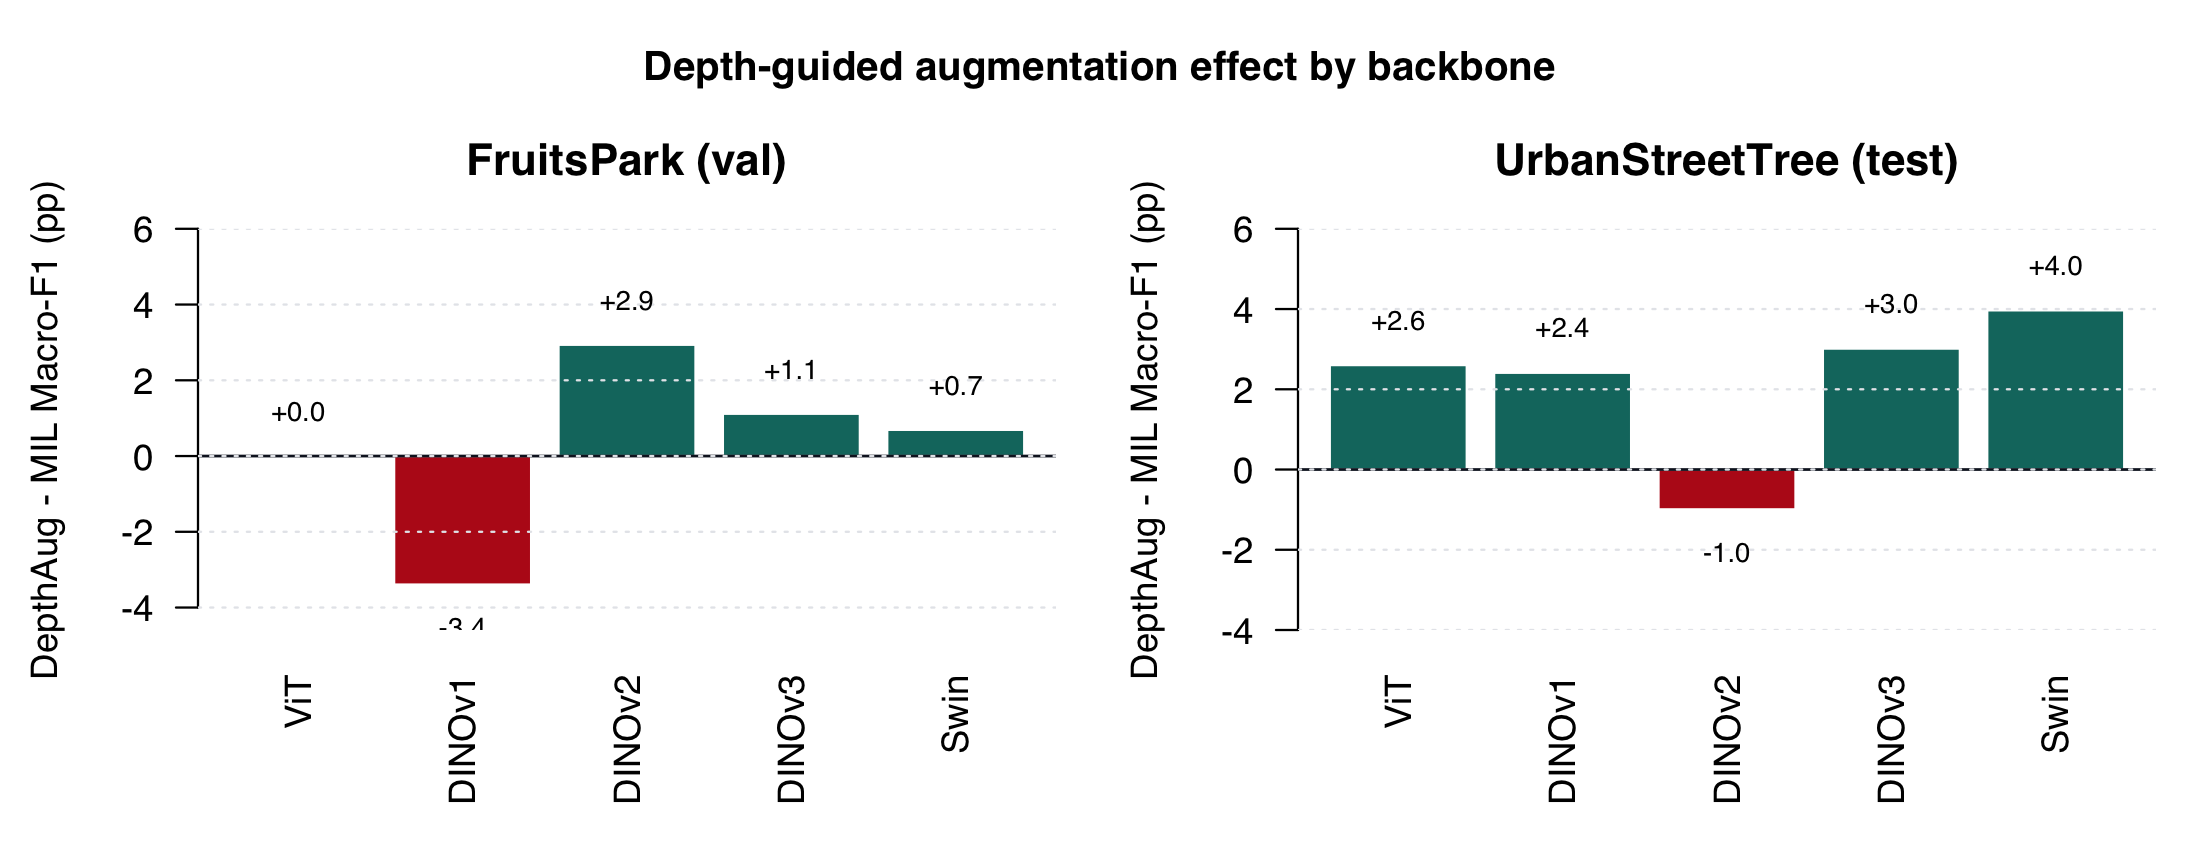
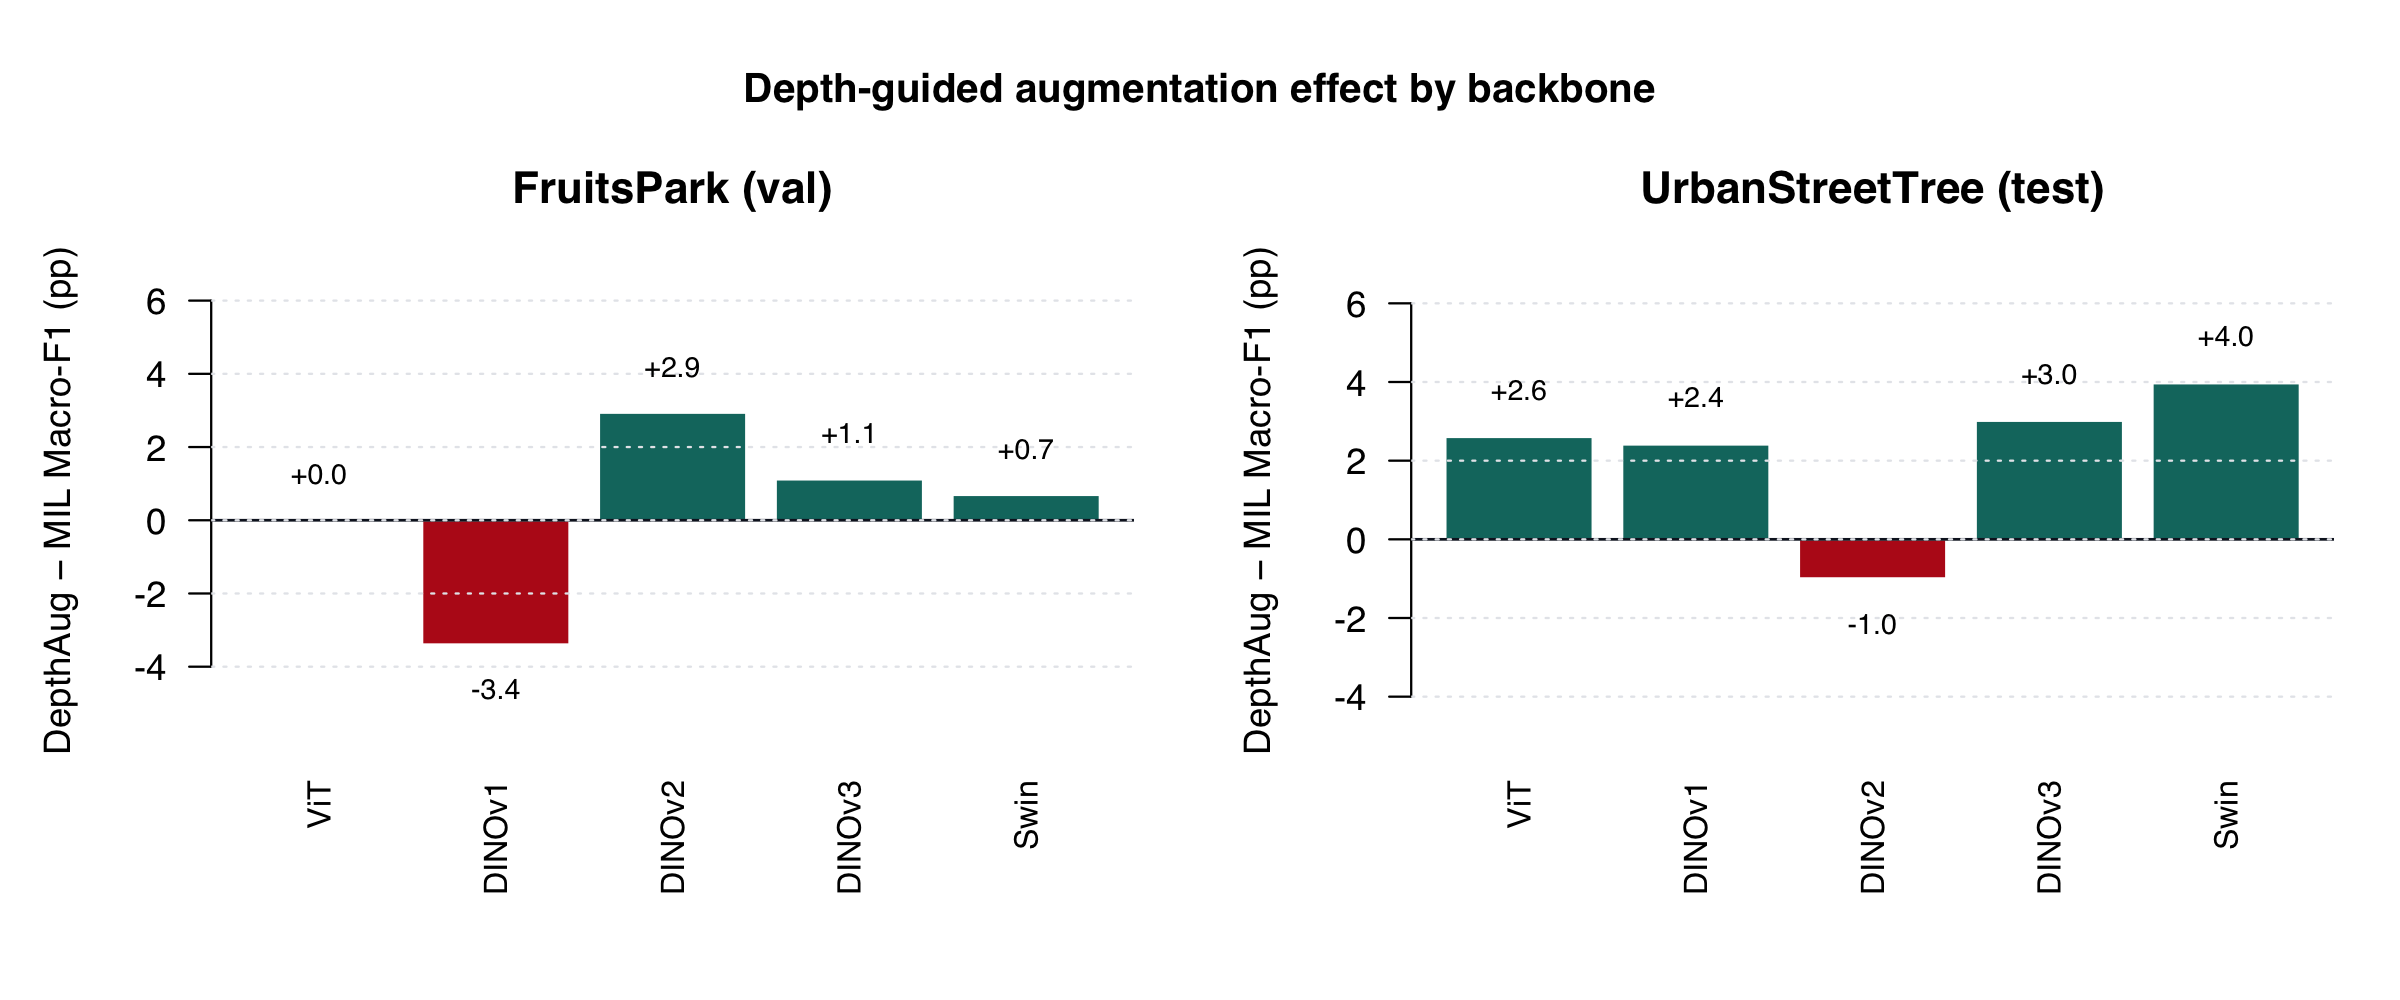
Upgrade attention localization to 4-seed multi-seed analysis and fix figure layout issues
Attention localization (results):
- Replaced single seed-42 analysis with full 4-seed (42–45) pooled result
  matching the sampling-seed protocol used elsewhere in the paper
- Updated table (tab:attention_localization): values now from 572 image-seed
  observations per condition; accuracy/macro-F1 as seed-mean±std matching
  tab:sampling_seed_ablation exactly
- New finding: TBS > TBS+DepthAug > Random (all pairwise p<10^-5 after
  Holm correction); DepthAug attenuates but does not eliminate localization
  benefit, removing the single-seed "no benefit" caveat
- Updated Discussion and Limitations paragraphs accordingly

Attention localization (figures):
- Regenerated fig25 from combined 4-seed CSV data
- Replaced sidewaysfigure* (landscape, low quality) with two portrait
  figure*[p] pages (fig26a: species 1–7, fig26b: species 8–13)
  using high-res source crops (1487×1800 px each)
- Removed \usepackage{rotating}

Figure fixes:
- Fig 12 (fig16_depth_aug_delta): increased ylim headroom and added
  xpd=TRUE to prevent value labels being clipped at plot boundary
- Fig 14 (fig17_pareto_frontier): moved "best" and "efficient" labels
  below their respective markers to avoid overlap with ratio text labels

diff --git a/IEEE_ACCESS/access.tex b/IEEE_ACCESS/access.tex
@@ -631,8 +631,51 @@ UrbanStreetTree & Proposed Sparse & 0.3 & $94.06\pm1.46$ & $410.40\pm25.57$ & 1.
 \label{fig:inference_breakdown}
 \end{figure*}
 
-\subsection{Qualitative Attention Behavior}
+\subsection{Qualitative and Attention Localization Analysis}
 Attention visualizations can be useful diagnostics for checking whether high-weight patches correspond to trunks, branches, or background regions. However, attention weights should not be treated as causal explanations by themselves \cite{attentionnotexplanation}. For this reason, we use attention behavior only as supporting diagnostic evidence and base the main claims on the seed-42 quantitative comparison, the Pareto analysis, the fixed-budget multi-seed diagnostic, and the measured efficiency analyses. Selected-patch visualizations are most informative when generated from the exact TBS-DepthAug setting used in the quantitative experiments; visualizations from earlier preliminary configurations are therefore not used as primary evidence.
+
+To turn this diagnostic into a quantitative comparison, we use the UrbanStreetTree test split, the only split with pixel-level tree masks, and re-run inference with the four sampling-seed checkpoints (42, 43, 44, 45) used in Table~\ref{tab:sampling_seed_ablation} (Random sparse, TBS sparse, and TBS sparse with DepthAug), pooling the 143 test images from each seed for 572 image-seed observations per condition. FruitsPark has no corresponding tree masks and is therefore excluded from this diagnostic. For each selected patch $i$ with ABMIL attention weight $a_i$ and tree-mask overlap ratio $r_i$, we compute the attention mass on tree regions $A_{\text{tree}}=\sum_i a_i r_i$ and a uniform-weighting reference $U_{\text{tree}}=\frac{1}{K}\sum_i r_i$, where $K$ is the number of selected patches. $U_{\text{tree}}$ isolates the tree-region overlap already produced by patch selection (TBS or random) alone, while $\Delta_{\text{tree}}=A_{\text{tree}}-U_{\text{tree}}$ and the attention lift $A_{\text{tree}}/U_{\text{tree}}$ isolate the additional effect of ABMIL's learned weighting within the selected bag.
+
+Table~\ref{tab:attention_localization} summarizes the result, pooled over the four sampling seeds. Tree-region overlap from patch selection alone ($U_{\text{tree}}$) is nearly identical between TBS sparse and random sparse selection, but ABMIL attention reweights the selected bag toward tree regions under both TBS variants: attention lift is highest under TBS sparse (median 1.53 [1.14, 1.98]), intermediate under TBS sparse with DepthAug (median 1.44 [1.13, 1.82]), and lowest under random sparse selection (median 1.24 [1.00, 1.64]). All three pairwise differences in lift and $\Delta_{\text{tree}}$ are significant after Holm correction (TBS sparse vs.\ random sparse, $p<10^{-21}$; TBS sparse vs.\ TBS sparse with DepthAug, $p<10^{-5}$; random sparse vs.\ TBS sparse with DepthAug, $p<10^{-6}$). DepthAug therefore reduces, but does not eliminate, the localization benefit of TBS sparse selection on this dataset, while test accuracy and macro-$F_1$ also decrease relative to plain TBS sparse, consistent with the seed-level means already reported in Table~\ref{tab:sampling_seed_ablation}. This matches the sampling-seed diagnostic in Section~\ref{sec:discussion}, which already shows that DepthAug's benefit on UrbanStreetTree is dataset- and protocol-dependent rather than uniform: across the four sampling seeds, plain TBS sparse selection gives both the strongest localization signal and the best accuracy, whereas adding DepthAug attenuates both.
+
+Fig.~\ref{fig:attention_localization_summary} shows the same four quantities pooled across the four sampling seeds, and Figs.~\ref{fig:attention_localization_qualitative}--\ref{fig:attention_localization_qualitative_b} show one representative test image per class from the seed-42 checkpoints (two-page layout, species 1--7 and 8--13), selected as a correctly classified example closest to the class median foreground ratio to avoid showing only visually convenient cases, together with the tree mask and the ABMIL attention heatmap under each condition.
+
+\begin{table*}[t]
+\centering
+\caption{Attention localization diagnostic on the UrbanStreetTree test split, pooled over four sampling seeds (572 image-seed observations per condition). $U_{\text{tree}}$ is the uniform-weighting reference, $A_{\text{tree}}$ is the ABMIL attention mass on tree regions, $\Delta_{\text{tree}}=A_{\text{tree}}-U_{\text{tree}}$, and the attention lift is $A_{\text{tree}}/U_{\text{tree}}$ (reported as median [IQR] due to its skewed distribution). Accuracy and macro-$F_1$ are seed-level mean $\pm$ std, matching Table~\ref{tab:sampling_seed_ablation}.}
+\label{tab:attention_localization}
+\resizebox{\textwidth}{!}{%
+\begin{tabular}{lccccccc}
+\toprule
+Condition & $U_{\text{tree}}$ & $A_{\text{tree}}$ & $\Delta_{\text{tree}}$ & Attention lift (median [IQR]) & Accuracy (\%) & Macro-$F_1$ (\%) \\
+\midrule
+Random sparse & $0.100\pm0.071$ & $0.131\pm0.089$ & $0.031\pm0.049$ & 1.24 [1.00, 1.64] & $89.69\pm3.85$ & $88.11\pm3.95$ \\
+TBS sparse & $0.098\pm0.090$ & $0.148\pm0.113$ & $0.051\pm0.056$ & 1.53 [1.14, 1.98] & $91.96\pm1.34$ & $90.43\pm1.76$ \\
+TBS sparse + DepthAug & $0.098\pm0.090$ & $0.138\pm0.102$ & $0.041\pm0.049$ & 1.44 [1.13, 1.82] & $88.64\pm3.49$ & $87.01\pm3.52$ \\
+\bottomrule
+\end{tabular}}
+\end{table*}
+
+\begin{figure*}[t]
+\centering
+\includegraphics[width=\textwidth]{figures/fig25_attention_localization_summary.png}
+\caption{Attention localization metrics on the UrbanStreetTree test split, pooled over four sampling seeds. TBS sparse selection raises attention mass and lift on tree regions relative to random sparse selection; adding DepthAug attenuates this benefit but does not remove it.}
+\label{fig:attention_localization_summary}
+\end{figure*}
+
+\begin{figure*}[p]
+\centering
+\includegraphics[width=\textwidth]{figures/fig26a_attention_top.png}
+\caption{Representative ABMIL attention heatmaps per UrbanStreetTree class, Part~1 of~2 (species 1--7), from the sampling-seed-42 checkpoints. Each row shows one correctly classified test image selected closest to the class median foreground ratio. Columns: input image with tree mask, attention heatmap under random sparse, TBS sparse, and TBS sparse with DepthAug selection.}
+\label{fig:attention_localization_qualitative}
+\end{figure*}
+
+\begin{figure*}[p]
+\centering
+\includegraphics[width=\textwidth]{figures/fig26b_attention_bottom.png}
+\caption{Representative ABMIL attention heatmaps per UrbanStreetTree class, Part~2 of~2 (species 8--13), continued from Fig.~\ref{fig:attention_localization_qualitative}. Layout and selection criteria are identical to Part~1.}
+\label{fig:attention_localization_qualitative_b}
+\end{figure*}
 
 \section{Discussion}
 \label{sec:discussion}
@@ -641,7 +684,7 @@ Attention visualizations can be useful diagnostics for checking whether high-wei
 Mid-range tree classification requires the model to preserve fine local evidence while reasoning over the entire object structure. Standard image-level resizing can dilute trunk and bark information, especially when the tree occupies a small region. ABMIL avoids forcing the whole image into one global descriptor; it lets the model assign weights to local patches. TBS makes this practical by reducing the number of instances and biasing the bag toward structural patches before feature extraction. The preliminary and fixed-budget diagnostics show that sparse sampling alone is not sufficient to explain the gains: random sparse sampling can be competitive, but TBS provides a deterministic structural prior and improves the replicated sparse-selection mean on both datasets. The filter-response diagnostic further explains why Sobel scoring is appropriate for TBS: after depth-guided background perturbation, Sobel still preserves trunk and branch contours while many background edges are suppressed.
 
 \subsection{Dataset-Dependent Role of DepthAug}
-UrbanStreetTree contains complex street backgrounds and a separate test split, making it a relevant setting for evaluating background shortcut suppression. At the same time, the dataset analysis shows that source-group and background cues remain predictive, so the split should not be treated as a strict location- or individual-tree holdout. The seed-42 backbone comparison shows that DepthAug improves most sparse MIL backbones on UrbanStreetTree, suggesting that perturbing depth-derived background regions can reduce reliance on scene context. However, the sampling-seed diagnostic shows that this benefit is not unconditional: under the fixed ViT sparse-selection protocol, plain TBS is more stable than TBS with DepthAug on UrbanStreetTree. We therefore treat DepthAug as a training-time regularizer whose value depends on backbone, dataset, and sampling protocol, rather than as a universally accuracy-improving operation. Importantly, DepthAug does not impose a depth sensor requirement at inference, which is essential for mobile and low-cost deployment.
+UrbanStreetTree contains complex street backgrounds and a separate test split, making it a relevant setting for evaluating background shortcut suppression. At the same time, the dataset analysis shows that source-group and background cues remain predictive, so the split should not be treated as a strict location- or individual-tree holdout. The seed-42 backbone comparison shows that DepthAug improves most sparse MIL backbones on UrbanStreetTree, suggesting that perturbing depth-derived background regions can reduce reliance on scene context. However, the sampling-seed diagnostic shows that this benefit is not unconditional: under the fixed ViT sparse-selection protocol, plain TBS is more stable than TBS with DepthAug on UrbanStreetTree. We therefore treat DepthAug as a training-time regularizer whose value depends on backbone, dataset, and sampling protocol, rather than as a universally accuracy-improving operation. The four-sampling-seed attention localization diagnostic (Table~\ref{tab:attention_localization}) is consistent with this picture: plain TBS sparse selection gives ABMIL attention that is significantly more concentrated on tree regions than under random sparse selection, and adding DepthAug attenuates this benefit and reduces accuracy, even though TBS sparse with DepthAug still localizes attention significantly above random sparse selection. We therefore do not treat DepthAug as a mechanism that reliably improves background-shortcut suppression beyond what TBS sparse selection already provides, and instead report it as a regularizer whose effect must be checked per backbone, dataset, and sampling protocol. Importantly, DepthAug does not impose a depth sensor requirement at inference, which is essential for mobile and low-cost deployment.
 
 FruitsPark shows a different pattern of the same dataset dependence: DINOv2 DepthAug is the best seed-42 configuration, but DepthAug does not improve all backbones. This does not invalidate the proposed framework. Instead, it indicates that the benefit of sparse depth-regularized MIL depends on dataset structure, split design, and background variability. Because FruitsPark has no independent test set and both datasets show source-group correlations across splits, validation and test performance may partly reflect collection-domain regularities. Future work should add held-out location, season, acquisition-series, or individual-tree splits to measure generalization more rigorously.
 
@@ -651,7 +694,7 @@ The Pareto results are central to the practical value of the method. In UrbanStr
 The multi-seed efficiency analysis extends this patch-budget result to wall-clock behavior: at $\rho=0.3$, UrbanStreetTree retains or slightly improves best validation accuracy while cutting time-to-best and processed patches by roughly two thirds (67.6\% and 73.0\%, respectively), whereas FruitsPark trades a 2.03-percentage-point accuracy decrease for similar reductions in time-to-best (54.6\%) and processed patches (68.1\%). End-to-end inference timing confirms that sparse operation also reduces deployment cost, with latency reductions of 40.4\% on FruitsPark and 32.5\% on UrbanStreetTree and peak-memory reductions of 18.5\% and 48.8\%, respectively. The latency breakdown also exposes the main remaining bottleneck: TBS reduces model-forward time, but patch preparation and selection dominate the total runtime. This suggests that caching patch coordinates, vectorizing selection, or using a lightweight learned selector could improve deployment speed without changing the MIL formulation.
 
 \subsection{Limitations}
-This study has several limitations. First, FruitsPark lacks an independent test set, and the dataset analysis indicates source-group correlations across the available splits. Second, the current TBS score is a hand-designed Sobel measure; learnable or class-aware patch selection may improve robustness. Third, pseudo-depth maps can fail in cluttered vegetation or unusual lighting. Fourth, the inference benchmark was run on a workstation GPU and measured 50 images per run, so deployment on mobile or embedded hardware still requires separate profiling. Future experiments should include held-out locations, acquisition-series splits, hardware-diverse timing, confidence-aware depth augmentation, and direct comparisons with recent learned efficient MIL selectors.
+This study has several limitations. First, FruitsPark lacks an independent test set, and the dataset analysis indicates source-group correlations across the available splits. Second, the current TBS score is a hand-designed Sobel measure; learnable or class-aware patch selection may improve robustness. Third, pseudo-depth maps can fail in cluttered vegetation or unusual lighting. Fourth, the inference benchmark was run on a workstation GPU and measured 50 images per run, so deployment on mobile or embedded hardware still requires separate profiling. Fifth, the attention localization diagnostic, although now pooled over the same four sampling seeds used elsewhere, is restricted to UrbanStreetTree because mask-based localization requires pixel-level tree masks that are not available for FruitsPark, so this diagnostic does not establish that background reliance is reduced on FruitsPark or in general; it also relies on attention weights, which are an auxiliary signal rather than a causal explanation. Future experiments should include held-out locations, acquisition-series splits, hardware-diverse timing, confidence-aware depth augmentation, mask-based attention localization on additional datasets, and direct comparisons with recent learned efficient MIL selectors.
 
 \section{Conclusion}
 \label{sec:conclusion}